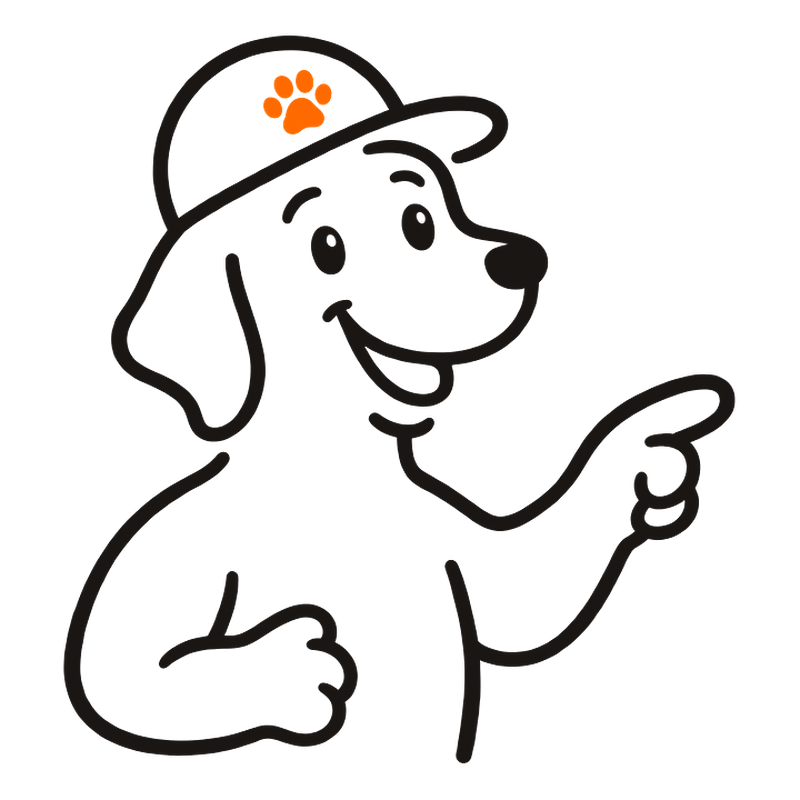
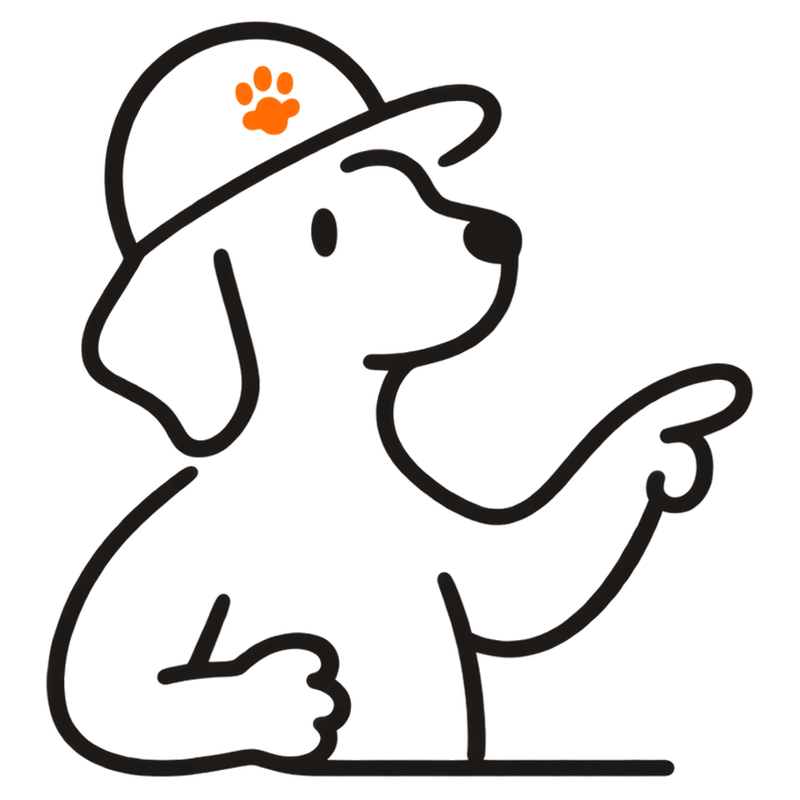
Use new pointing Pawlo, smaller guide, face the tool on desktop
Claude-Session: https://claude.ai/code/session_014xgDgrEAP3f3Wtujd8HdEQ

Changed region(s): [[0.0312, 0.0, 0.8438, 0.9688], [0.5312, 0.4375, 0.9375, 0.8438], [0.5312, 0.5312, 0.7812, 0.6875]]

diff --git a/public/index.html b/public/index.html
@@ -114,12 +114,13 @@ body{top:0!important}
 
 /* Pawlo guide */
 .guide{position:sticky;top:20px;display:flex;flex-direction:column;align-items:center;padding-top:30px}
-.guide img{width:min(320px,100%);height:auto;transition:opacity .25s}
+.guide img{width:min(250px,100%);height:auto;transition:opacity .25s}
+@media (min-width:901px){.guide img.flip{transform:scaleX(-1)}}
 .bubble{position:relative;background:var(--paper);border:2px solid var(--ink);border-radius:22px;padding:14px 18px;font-family:var(--hand);font-size:22px;line-height:1.3;max-width:320px;margin-bottom:6px}
 .bubble::after{content:"";position:absolute;left:50%;bottom:-12px;width:20px;height:20px;background:var(--paper);border-right:2px solid var(--ink);border-bottom:2px solid var(--ink);transform:translateX(-50%) rotate(45deg)}
 @media (max-width:900px){
   .guide{position:static;flex-direction:row-reverse;align-items:flex-end;justify-content:flex-end;gap:6px;padding-top:0;margin-bottom:-6px;order:-1}
-  .guide img{width:104px;flex:none}
+  .guide img{width:84px;flex:none}
   .bubble{font-size:19px;padding:10px 14px;margin-bottom:28px;max-width:none;flex:1}
   .bubble::after{left:auto;right:-12px;bottom:18px;transform:rotate(-45deg)}
 }
@@ -445,7 +446,7 @@ footer a{color:var(--ink);text-underline-offset:3px}
 
   <aside class="guide" aria-live="polite">
     <div class="bubble" id="bubble">Hi, I'm Pawlo! Pick a photo and I'll make it fit your screen.</div>
-    <img id="guideImg" src="/brand/pawlo-pointing.webp" alt="Pawlo the dog" width="320" height="320">
+    <img id="guideImg" class="flip" src="/brand/pawlo-pointing.webp" alt="Pawlo the dog" width="320" height="320">
   </aside>
 </main>
 
@@ -553,6 +554,7 @@ function say(text, pose = "pointing") {
   if (b.textContent !== text) { b.textContent = text; b.classList.remove("pop"); void b.offsetWidth; b.classList.add("pop"); }
   const src = `/brand/${POSES[pose]}.webp`;
   if (!img.src.endsWith(src)) img.src = src;
+  img.classList.toggle("flip", pose === "pointing");
 }
 function guideForState() {
   if (!photoDataUrl) return say("Hi, I'm Pawlo! Pick a photo and I'll make it fit your screen.");
